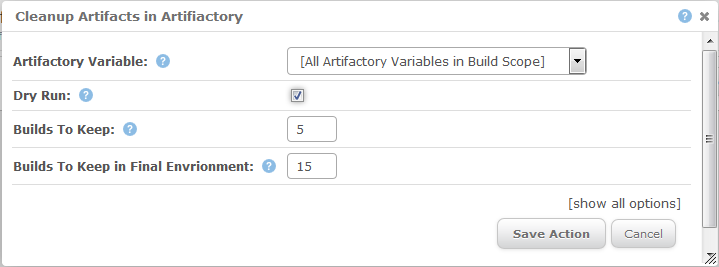
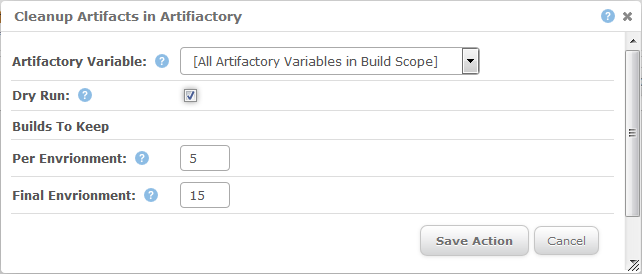
Layout changes

diff --git a/NZCustomsServiceExtension/Variables/ArtifactoryVersionVariableEditor.cs b/NZCustomsServiceExtension/Variables/ArtifactoryVersionVariableEditor.cs
@@ -98,6 +98,7 @@ namespace NZCustomsServiceExtension.Variables
             };
         }
 
+        
         /// <summary>
         /// Define form
         /// </summary>
@@ -110,40 +111,51 @@ namespace NZCustomsServiceExtension.Variables
             this.replaceSlashWithDot = new CheckBox { Width = 250, Text = "Replace '/' with '.'" };
             this.defaultToNotIncluded = new CheckBox { Width = 250, Text = "Default to (Not Included)" };
 
-            string helpText = 
-                    "Filter: only include release related items (eg %RELNO%..*)<br>" +
-                    "Trim: text removed from list item.<br>" +
-                    "Replace: check to replace / with . in list item.<br>" +
-                    "NOTE: Ensure Scope set to build and default value is required is checked.";
-            
+            //new SlimFormField("Help", server) { "Ensure 'Scope' is set to Build and 'Default Value is Required' is checked." },
             this.Controls.Add(
-                new FormFieldGroup(
-                    "Server",
-                    "Server used for this action. If not populated then the server defined for the Artifactory extension will be used.",
-                    false,
-                    new StandardFormField("Server:", this.server))
-                    {
-                        Narrow = true
-                    },
-                new FormFieldGroup(
-                    "Repository Path",
-                    "The path to the folder that contains the list of builds.<br>Supports use of the %RELNO% and %RELNAME% variables <i>(token for active release(s) rather than current release)</i>.",
-                    false,
-                    new StandardFormField("Repository Path:", this.repositoryPath))
-                    {
-                        Narrow = true
-                    },
-                new FormFieldGroup(
-                    "Options",
-                    helpText,
-                    false,
-                    new StandardFormField("Filter (regular expression):", this.filter),
-                    new StandardFormField("Trim From Path:", this.trimFromPath),
-                    new StandardFormField(string.Empty, this.replaceSlashWithDot),
-                    new StandardFormField(string.Empty, this.defaultToNotIncluded))
-                    {
-                        Narrow = true
-                    });
+                new SlimFormField("IMPORTANT") { InnerHtml = "<i>Ensure 'Scope' is set to Build and 'Default Value is Required' is checked.</i>" },
+                new SlimFormField("Server:", this.server) { HelpText = "Server used for this action. Optional: if not populated then the server defined for the Artifactory extension will be used" },
+                new SlimFormField("Repository Path:", this.repositoryPath) { HelpText = "The path to the folder that contains the list of builds.<br>Supports use of the %RELNO% and %RELNAME% variables <i>(token for active release(s) rather than current release)</i>." },
+                new SlimFormField("Filter:", this.filter) { HelpText = "If builds for all releases placed in one folder, use this filter to only include active release related items (eg %RELNO%..*).<br><br><i>Note: This is a regular expression.</i>" },
+                new SlimFormField("Trim From Path:", this.trimFromPath) { HelpText = "To strip the artifactory path details from the list items that this control displays, enter the text that you wish removed from the start of the item.  Often this will be identical to the Repository Path setting." },
+                new SlimFormField("Version Format:", this.replaceSlashWithDot) { HelpText = "When checked will replace / with . in list item, eg 1.0/22 will become to 1.0.22 - only useful when builds are kept in seperate release folders rather than all in one folder" },
+                new SlimFormField("Default Value: ", this.defaultToNotIncluded) { HelpText = "When unchceck will default to the latest build (last item in list), when checked not select a build." }
+            );
+
+            //string helpText =
+            //        "Filter: only include release related items (eg %RELNO%..*)<br>" +
+            //        "Trim: text removed from list item.<br>" +
+            //        "Replace: check to replace / with . in list item.<br>" +
+            //        "NOTE: Ensure Scope set to build and default value is required is checked.";
+
+            //this.Controls.Add(
+            //    new FormFieldGroup(
+            //        "Server",
+            //        "Server used for this action. If not populated then the server defined for the Artifactory extension will be used.",
+            //        false,
+            //        new StandardFormField("Server:", this.server))
+            //        {
+            //            Narrow = true
+            //        },
+            //    new FormFieldGroup(
+            //        "Repository Path",
+            //        "The path to the folder that contains the list of builds.<br>Supports use of the %RELNO% and %RELNAME% variables <i>(token for active release(s) rather than current release)</i>.",
+            //        false,
+            //        new StandardFormField("Repository Path:", this.repositoryPath))
+            //        {
+            //            Narrow = true
+            //        },
+            //    new FormFieldGroup(
+            //        "Options",
+            //        helpText,
+            //        false,
+            //        new StandardFormField("Filter (regular expression):", this.filter),
+            //        new StandardFormField("Trim From Path:", this.trimFromPath),
+            //        new StandardFormField(string.Empty, this.replaceSlashWithDot),
+            //        new StandardFormField(string.Empty, this.defaultToNotIncluded))
+            //        {
+            //            Narrow = true
+            //        });
         }
     }
 }

diff --git a/NZCustomsServiceExtension/Actions/CleanupArtifactoryActionEditor.cs b/NZCustomsServiceExtension/Actions/CleanupArtifactoryActionEditor.cs
@@ -105,10 +105,11 @@ namespace NZCustomsServiceExtension.Actions
             };
 
             this.Controls.Add(
-                new SlimFormField("Artifactory Variable:", this.artifactoryVariable) { HelpText = "Choose a specific artifactory variable, or all artifactory variables in build scope."},
+                new SlimFormField("Artifactory Variable:", this.artifactoryVariable) { HelpText = "Choose a specific artifactory variable, or all artifactory variables in build scope." },
                 new SlimFormField("Dry Run:", this.dryRun) { HelpText = "Checking this option means that this action will only log what it would delete, unchecking it will cause the action to actually delete artifacts from Artifactory." },
-                new SlimFormField("Builds To Keep:", this.buildsToKeep) { HelpText = "Number of rejected builds to keep per envrionment, this allows reverting to a previous build." },
-                new SlimFormField("Builds To Keep in Final Envrionment:", this.buildsToKeepFinal) { HelpText = "Could be read as how many production releases should we keep in the archive." }
+                new SlimFormField("Builds To Keep"),
+                new SlimFormField("Per Envrionment:", this.buildsToKeep) { HelpText = "Number of rejected builds to keep per envrionment, this allows reverting to a previous build." },
+                new SlimFormField("Final Envrionment:", this.buildsToKeepFinal) { HelpText = "Could be read as how many production releases should we keep in the archive." }
             );
 
             this.artifactoryVariable.Items.Add(new ListItem("[All Artifactory Variables in Build Scope]", ALL_ARTIFACTORY_VARIABLES));

diff --git a/NZCustomsServiceExtension/Actions/CleanupArtifactoryAction.cs b/NZCustomsServiceExtension/Actions/CleanupArtifactoryAction.cs
@@ -244,6 +244,8 @@ namespace NZCustomsServiceExtension.Actions
 
             if (variable.RepositoryPathRequiresExpanding())
             {
+                // TODO: It may be better to get the base folder and look at all child folders rather than rely on kept builds to 
+                //       give us the full list of folders
                 // Release builds are stored in a different folder per release
                 var releases = builds.Select(b => b.variableReleaseNameOrNumber).Distinct().OrderBy(b => b);
 
